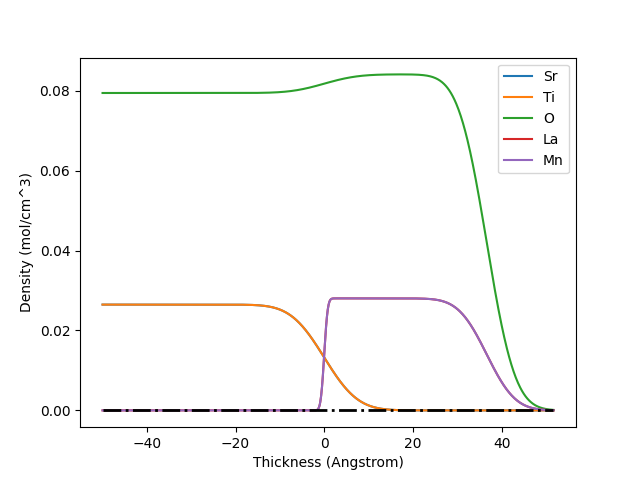
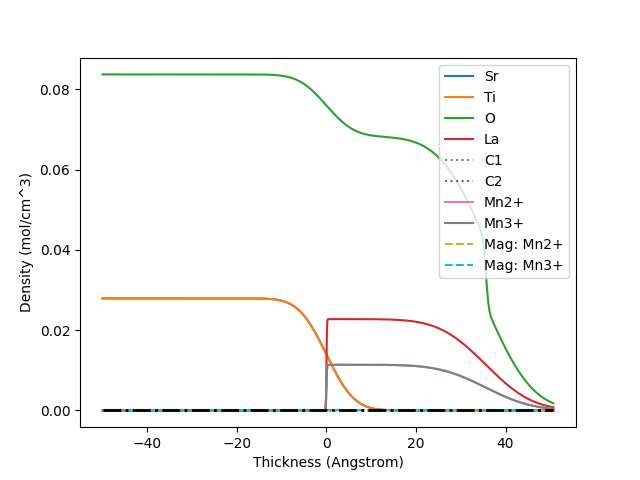
making some plots

diff --git a/GlobalOptimization.py b/GlobalOptimization.py
@@ -771,7 +771,7 @@ def scanCompute(x, *args):
             pol = myDataScan['Polarization']
 
             Rdat = np.log(np.array(myData[2]))
-            Rsim = sample.energy_scan(Theta, E)
+            E, Rsim = sample.energy_scan(Theta, E)
             Rsim = np.log(Rsim[pol])
 
             chi2 = chi2 + sum((Rdat-Rsim)**2/abs(Rsim))
@@ -1732,7 +1732,7 @@ def parameterSelection(sample, queue):
             finishPoly = False
             if toggle == '1':
                 bound = input('Input the polmorph ratio bound for ' + my_poly + ' (0, 1): ')
-                bound = bound.strip()
+                bound = bound.split()
                 boundWrong = True
                 while boundWrong:
                     boundWrong = False
@@ -2386,7 +2386,7 @@ def parameterSelection(sample, queue):
             print()
             if toggle == '1':
                 bd = input('Enter the parameter optimization boundary as a tuple (lower, upper): ')
-                bd = bd.strip()
+                bd = bd.split()
                 boundWrong = True
                 while boundWrong:
                     boundWrong = False
@@ -3425,6 +3425,7 @@ def optimizationProcess(fname):
             while whichFile not in list(dictFiles.keys()):
                 whichFile = input('Select one of the provided options: ')
             print()
+            print(dictFiles[whichFile])
             WriteSampleHDF5(dictFiles[whichFile], newSample)
 
 
@@ -3443,7 +3444,7 @@ def optimizationProcess(fname):
                 if not(fileName.endswith(fileExt)):
                     fileWrong = True
 
-            saveNewFile(fileName,info, data_dict, newSample)
+            saveNewFile(fileName,data, data_dict, newSample)
 
         elif toggle == '3':
             first = True
@@ -3463,16 +3464,20 @@ def optimizationProcess(fname):
 
     return
 if __name__ == "__main__":
-    sample = slab(2)
+    sample = slab(3)
 
     sample.addlayer(0, 'SrTiO3', 50, roughness=4)
 
-    sample.addlayer(1, 'LaMnO3', 30, roughness=1.5, linked_roughness=1)
-    fname = 'Pim10uc.h5'
+    sample.addlayer(1, 'LaMnO3', 39.44931460338314, density = [0.022742245555,0.022742245555,0.068226736666],roughness=6.9991860, linked_roughness=1.39166797086646)
+    sample.polymorphous(1,'Mn',['Mn2+','Mn3+'],[0.5,0.5], sf=['Mn','Fe'])
+    sample.magnetization(1,['Mn2+','Mn3+'],[0,0],['Co', 'Ni'])
+
+    sample.addlayer(2, 'CCO', 5, density=[0.01,0.01,0.01], roughness=0.5, linked_roughness=0.5)
+    fname = 'test.h5'
 
     #sample.plot_density_profile(1)
     #plt.show()
-    WriteSampleHDF5(fname, sample)
+    #WriteSampleHDF5(fname, sample)
     #print(ReadDataHDF5(fname))
     #scans = [1,2,3,4]
     #data, data_dict, sim_dict = ReadDataHDF5(fname)

diff --git a/main.py b/main.py
@@ -23,26 +23,25 @@ if __name__ == '__main__':
     sample2.addlayer(0, 'SrTiO3', 50, density=4.8579022, roughness=5.97722238)
     sample2.addlayer(1, 'LaMnO3', 36.64782587,density=6.77792568, roughness=5.06593207, linked_roughness=0.62078224)
 
-    sample1.plot_density_profile(1)
-    plt.xlim([-25,50])
-    plt.show()
+    #sample1.plot_density_profile(1)
+    #plt.xlim([-25,50])
+    #plt.show()
 
     fname = 'Pim10uc.h5'
     info, data_dict, sim_dict = ReadDataHDF5(fname)
-    mydata = data_dict[info[21][2]]
-
-    qz = mydata['Data'][0]
+    mydata = data_dict[info[71][2]]
+    print(info[71][2])
+    E = mydata['Data'][3]
     R = mydata['Data'][2]
-    E = mydata['Energy']
-    qz, Rn = sample1.reflectivity(E, qz)
+    Theta = mydata['Angle']
+    E, Rn = sample1.reflectivity(Theta, E)
     Rn = Rn['S']
 
     plt.figure(2)
-    plt.plot(qz, R)
-    plt.plot(qz, Rn)
+    plt.plot(E, R)
+    #plt.plot(qz, Rn)
     plt.ylabel('Reflection Intensity (R)')
-    plt.xlabel(r'Momentum Transfer, $q_{z}$ ($A^{-1}$)')
-    plt.legend(['Experiment', 'Simulated'])
+    plt.xlabel(r'Energy, E (eV)')
     plt.yscale('log')
     plt.show()
 

diff --git a/material_structure.py b/material_structure.py
@@ -825,8 +825,8 @@ class slab:
                         const = (next_density-current_density)/2
                         erf_func = self.error_function(thickness, sigma, offset, True) + 1
                         density_struct[ele] = density_struct[ele] + const * erf_func
-                        density_struct[ele][density_struct[ele]<0] = 0
 
+                density_struct[ele][density_struct[ele] < 0] = 0
             # Polymorph element
             pn=0
             if ele in poly_keys:
